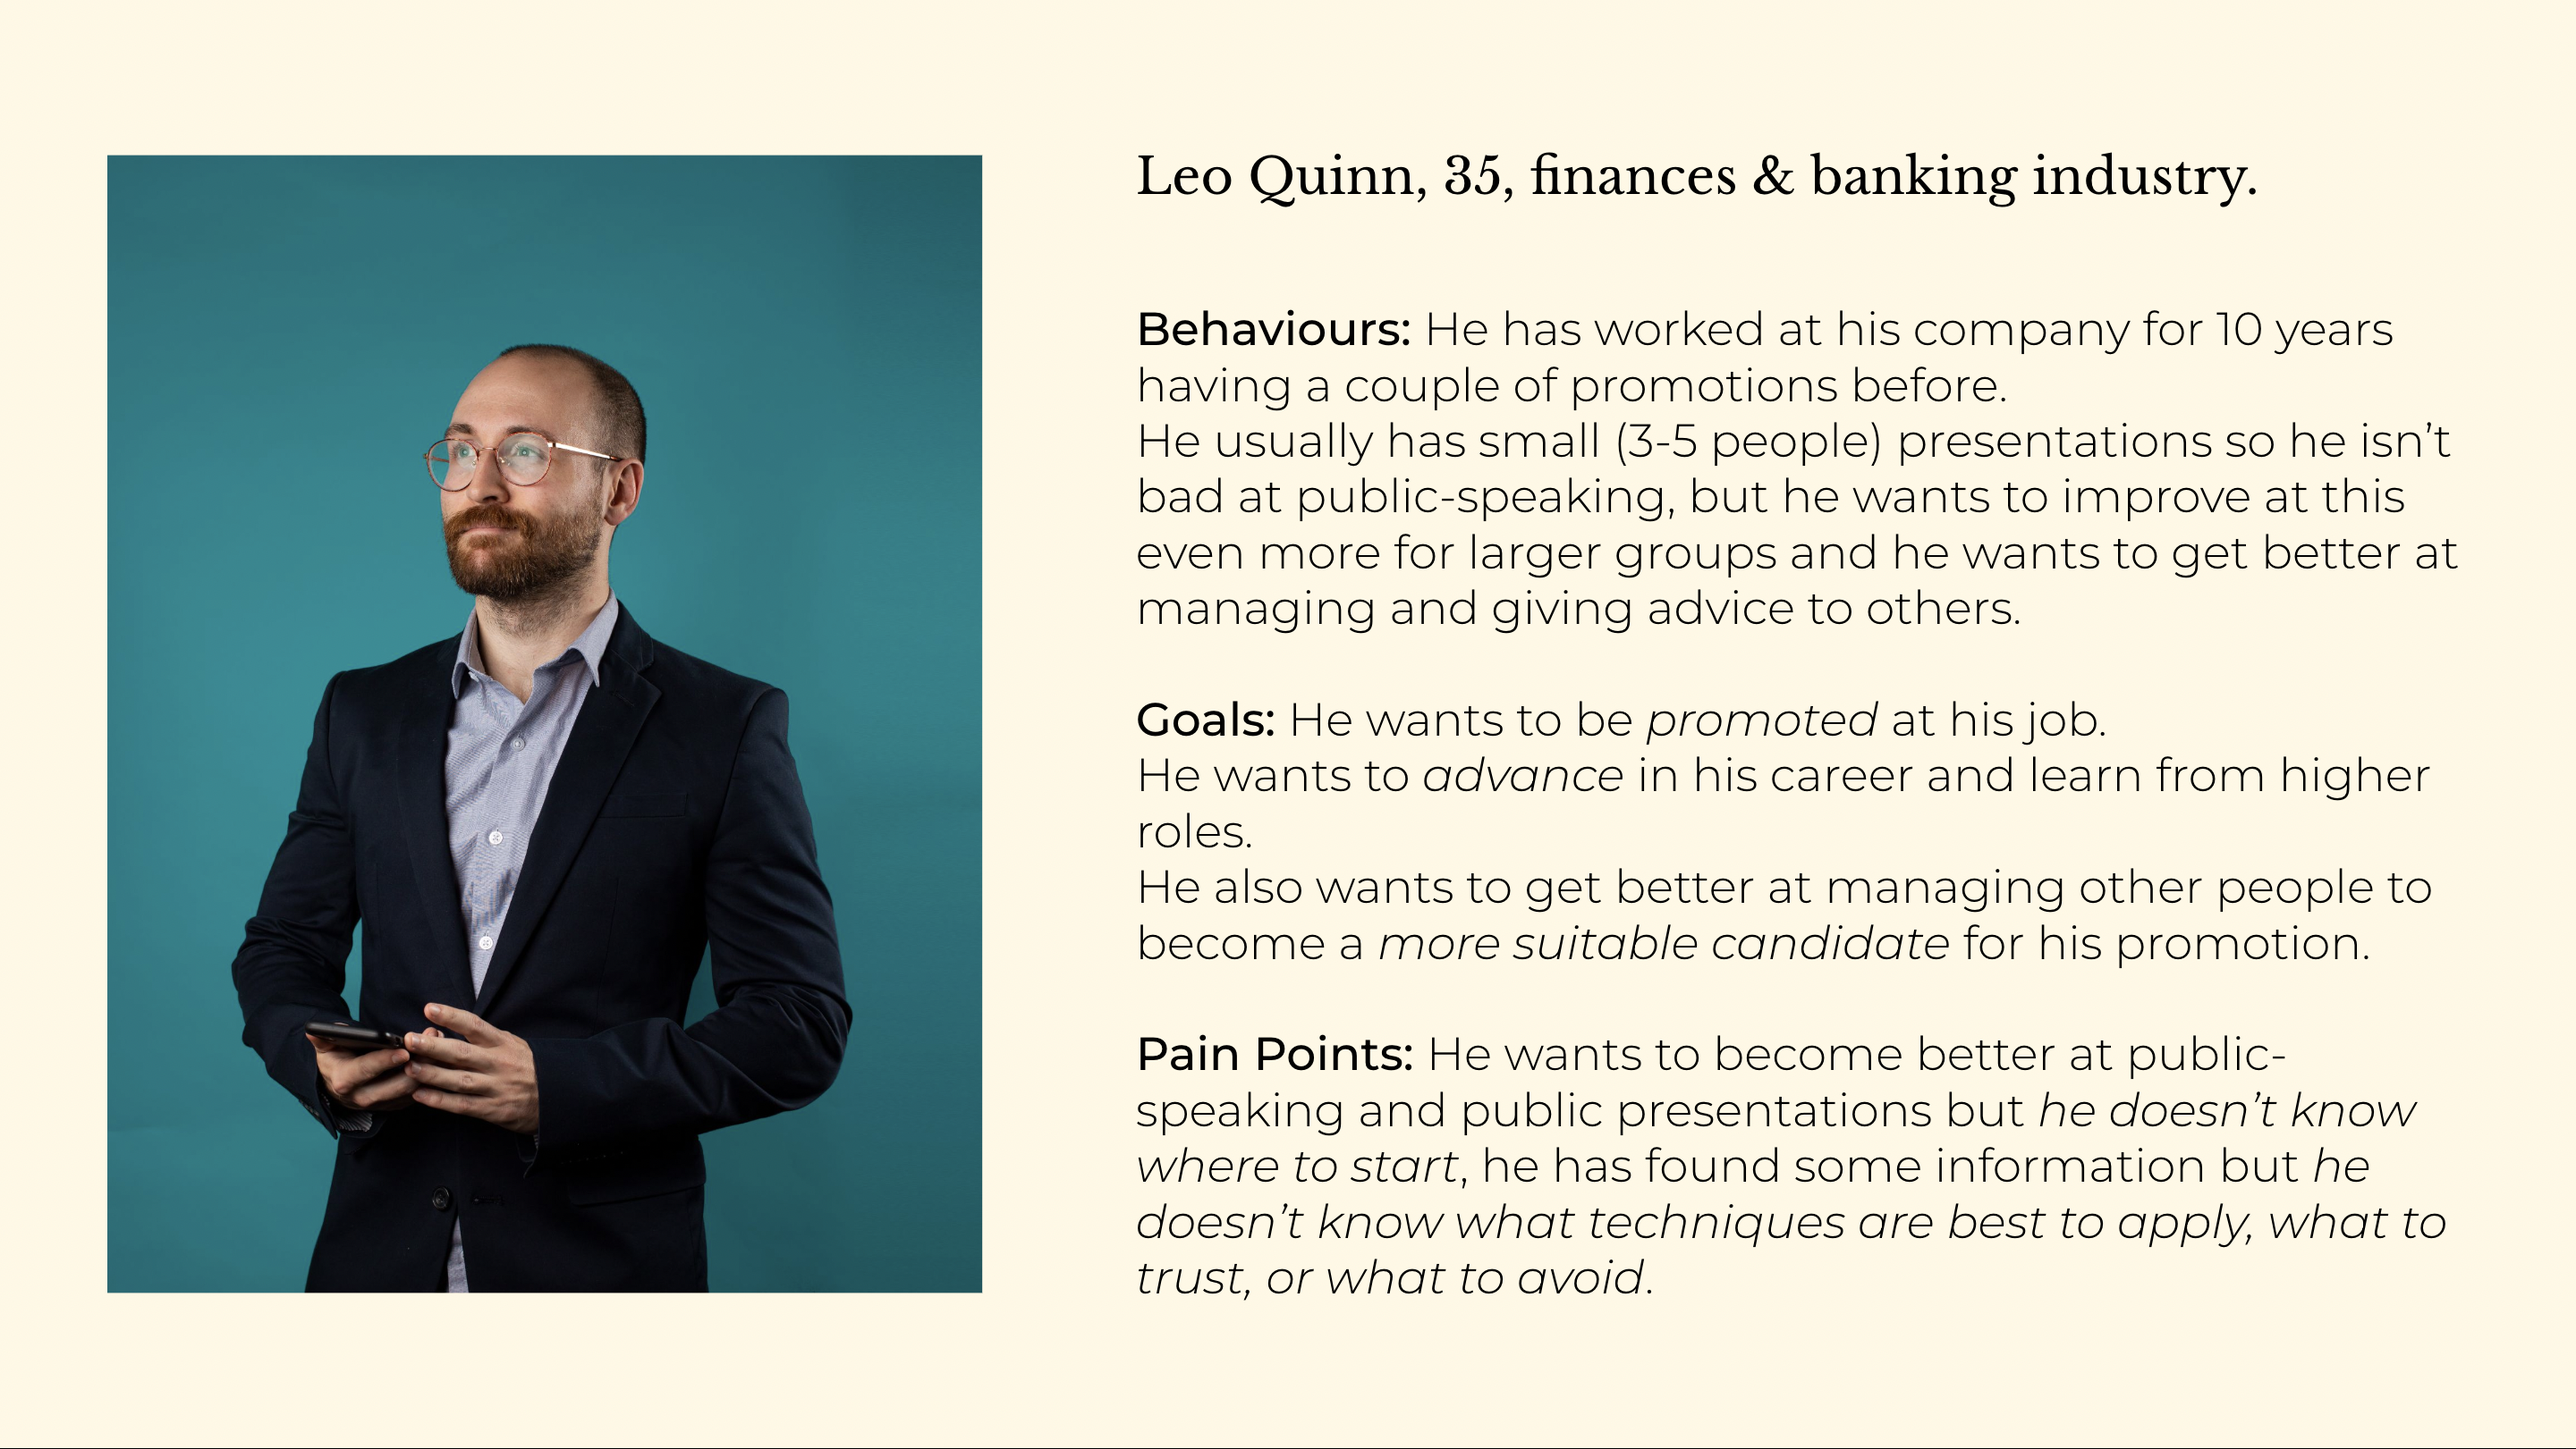
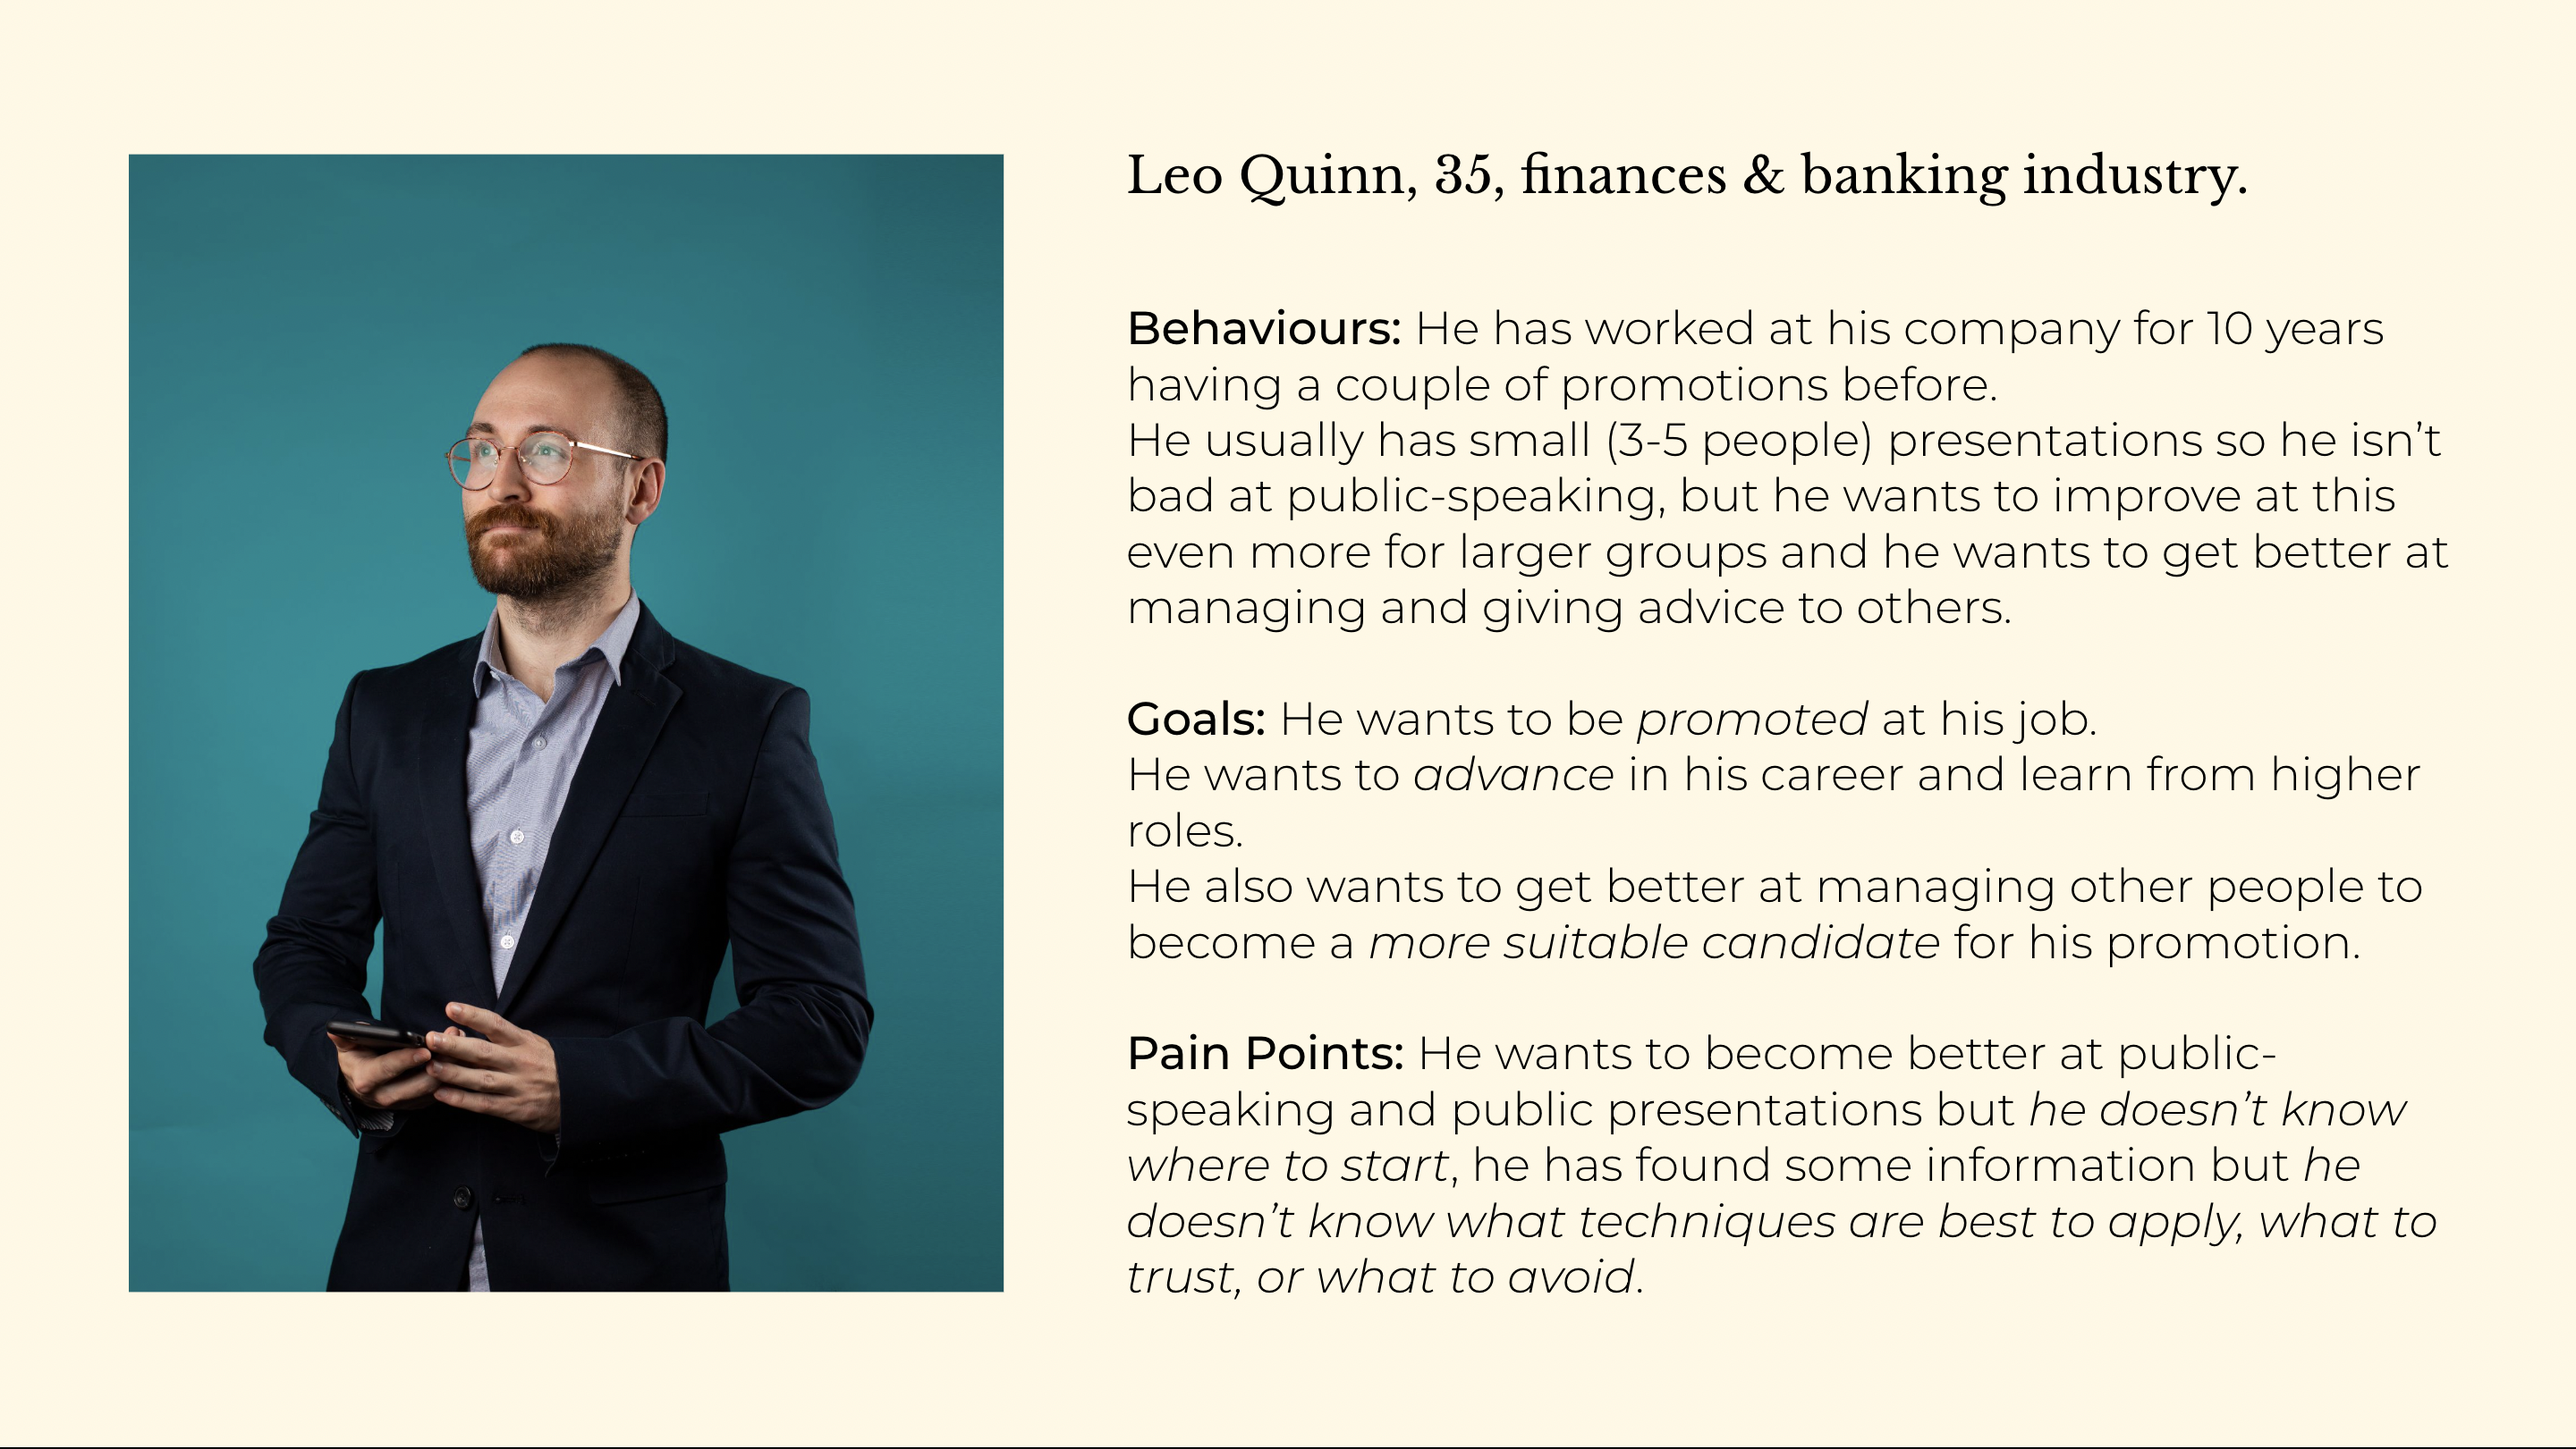
Case Study "Ideation".
- Uploaded a "Double-Diamond Process" image temporary.
- Corrections to "Personas" images (intercalated & new alignment between both slides ('image & text' from top aligned with 'text & image' from bottom) in Case Study visually).
- Uploading "Problem Statement" image temporary.

diff --git a/styles/theme.scss b/styles/theme.scss
@@ -545,7 +545,7 @@ section.project-page {
       padding-right:10px;
       padding-bottom:15px;
       padding-left:10px;
-      font-size:16px;//18px
+      font-size:15px;//18px
     }
   }
   .page-content-last {
